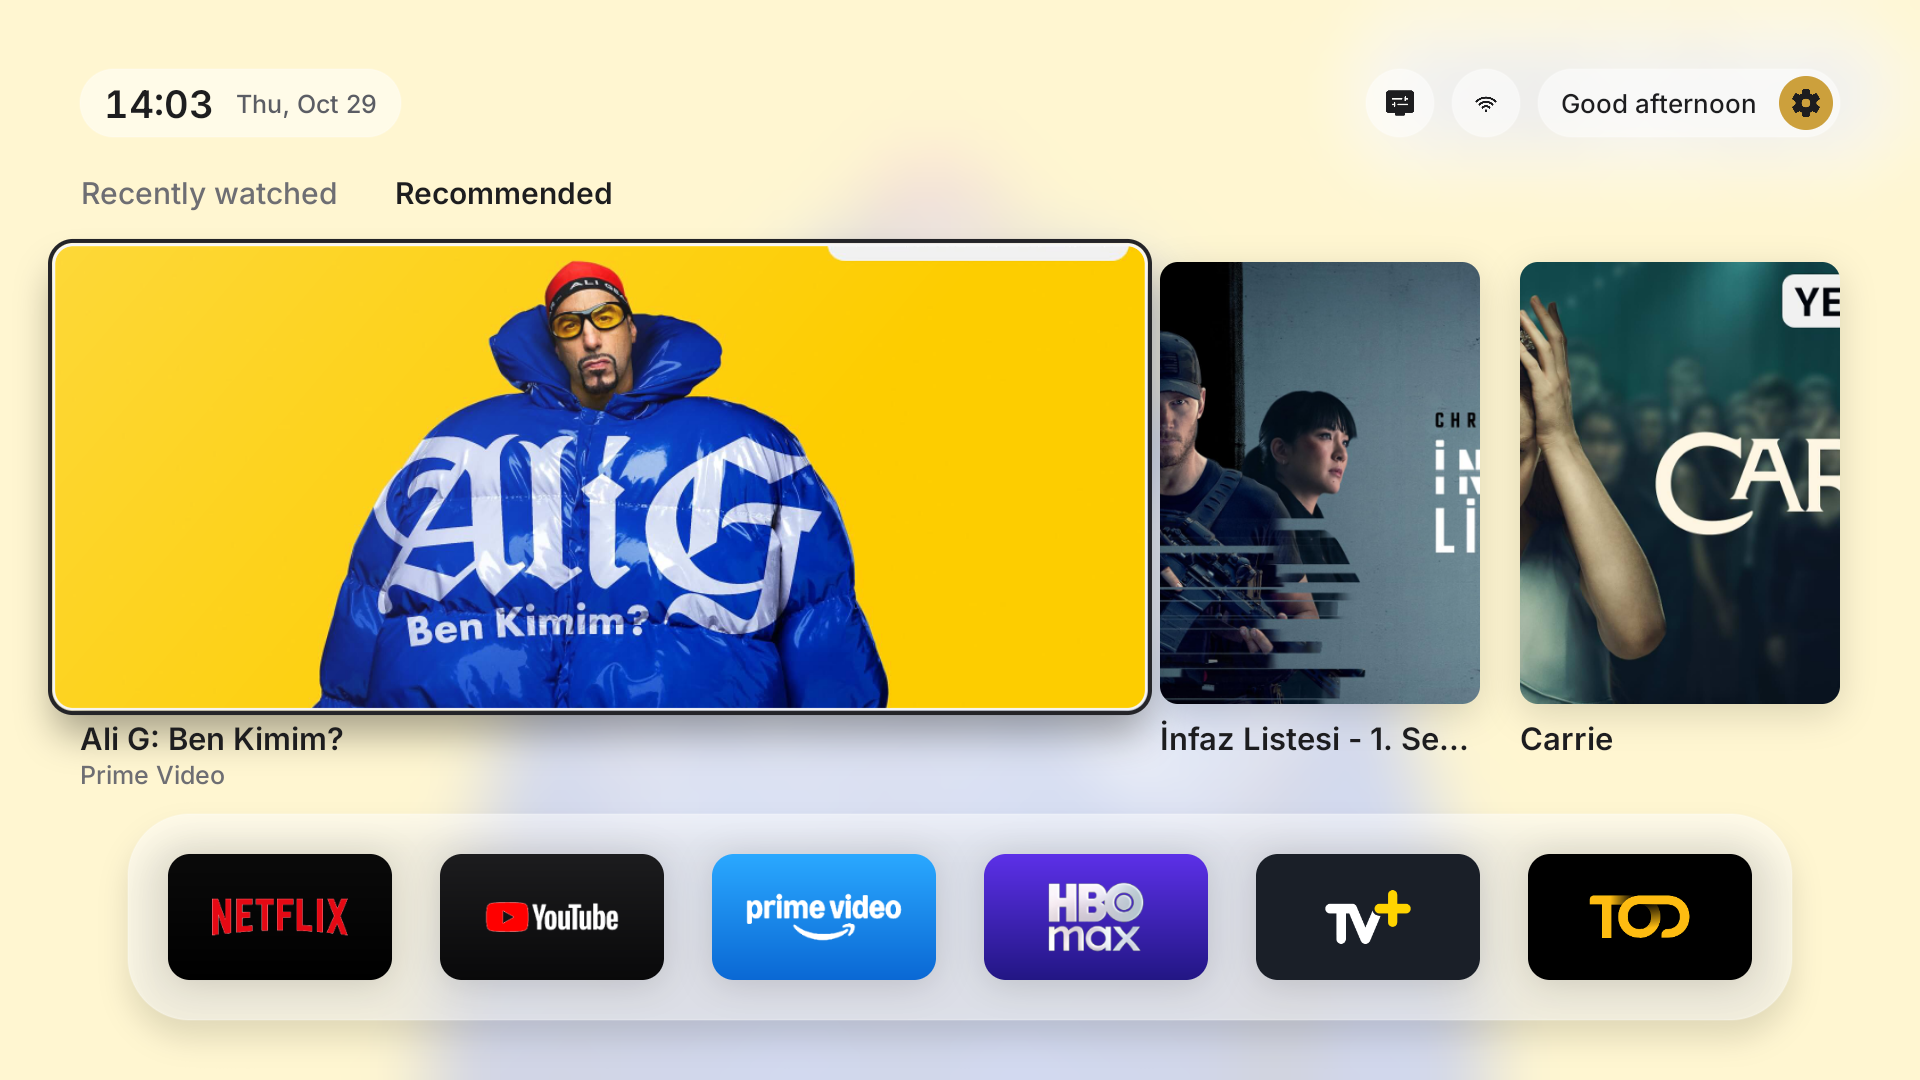
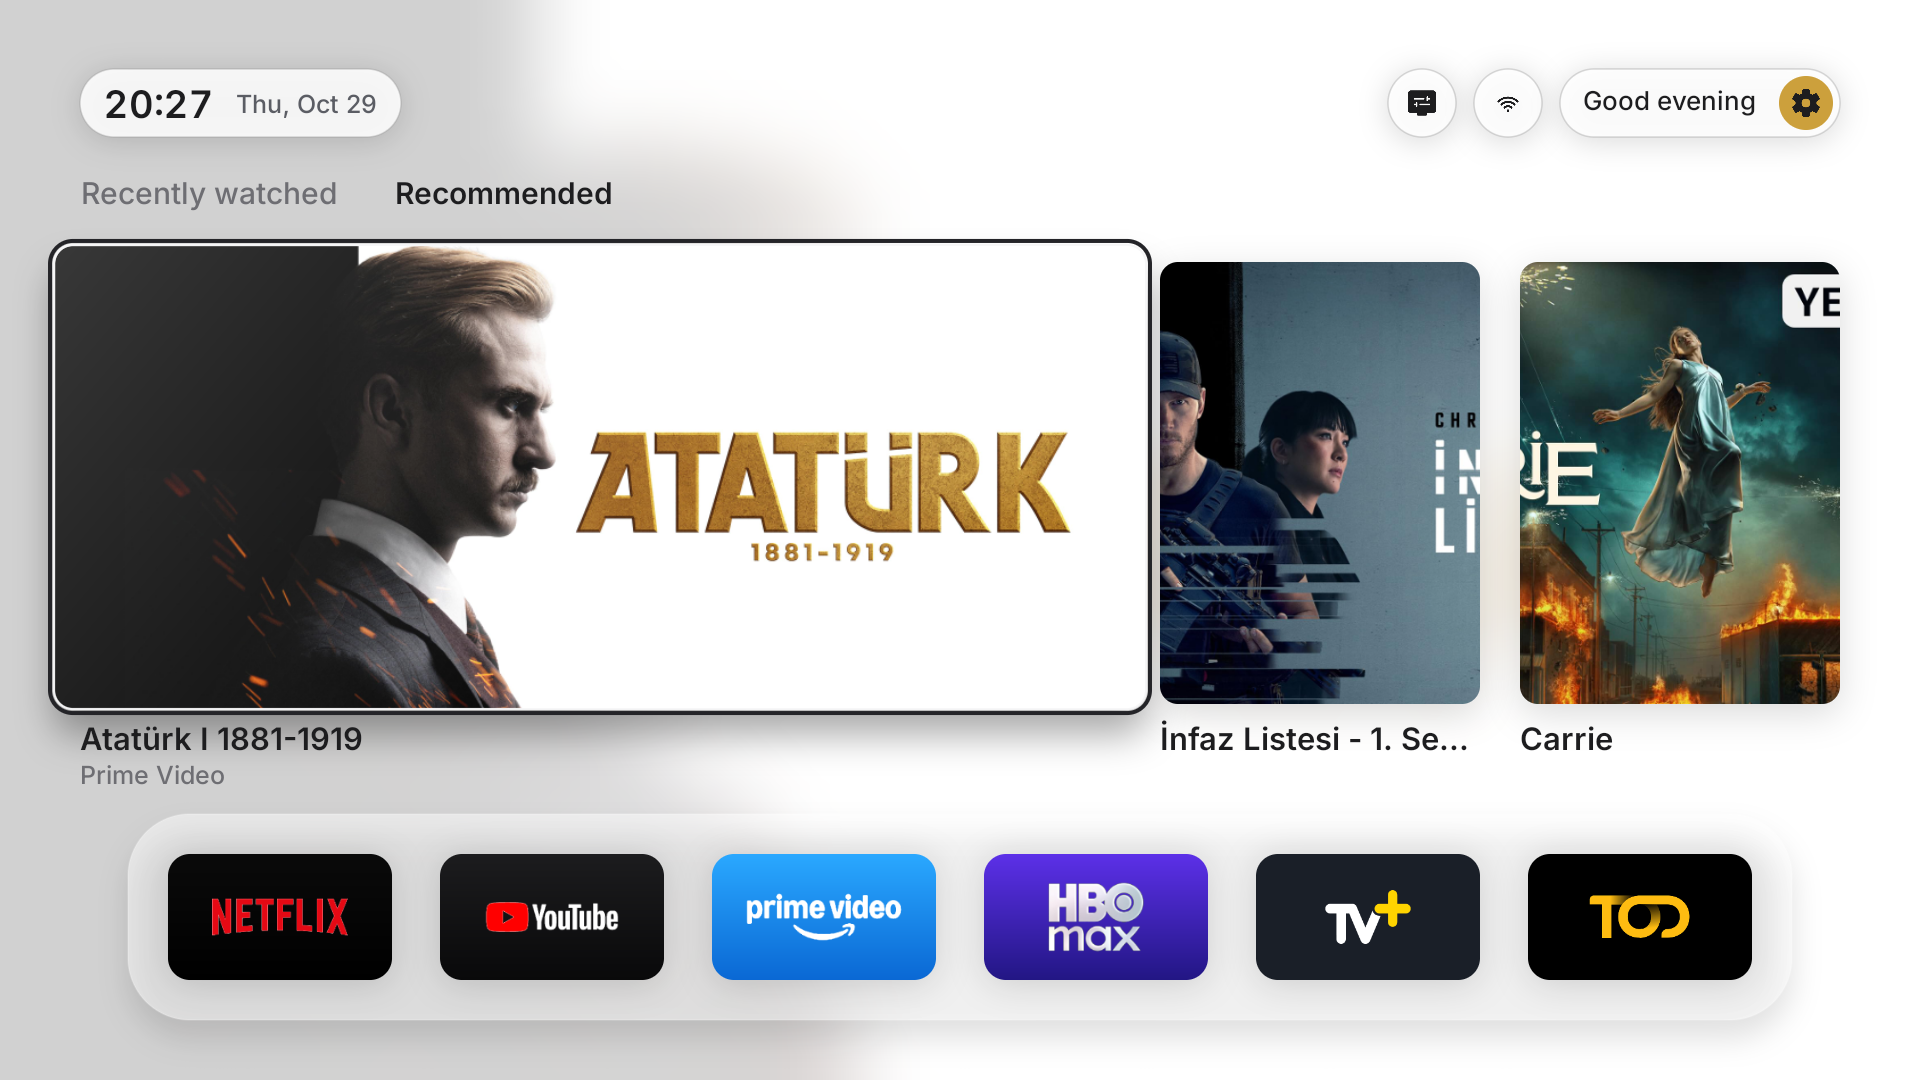
Retake the light-theme home screenshot
Shows the easier-to-see light header.

diff --git a/docs/media/README.md b/docs/media/README.md
@@ -21,7 +21,7 @@ The Features row contains, in order:
 The Light and dark section adds, captured on 2026-10-29 with the same build:
 
 - `theme-home-light-en.png`: the Recommended home in the light theme, background following the first card (the dark
-  counterpart is `recommendations-en.png`).
+  counterpart is `recommendations-en.png`). Retaken the same day after the light-theme header became easier to see.
 - `theme-settings-light-en.png` and `theme-settings-dark-en.png`: Appearance settings in each theme, with Background
   from content.
 
